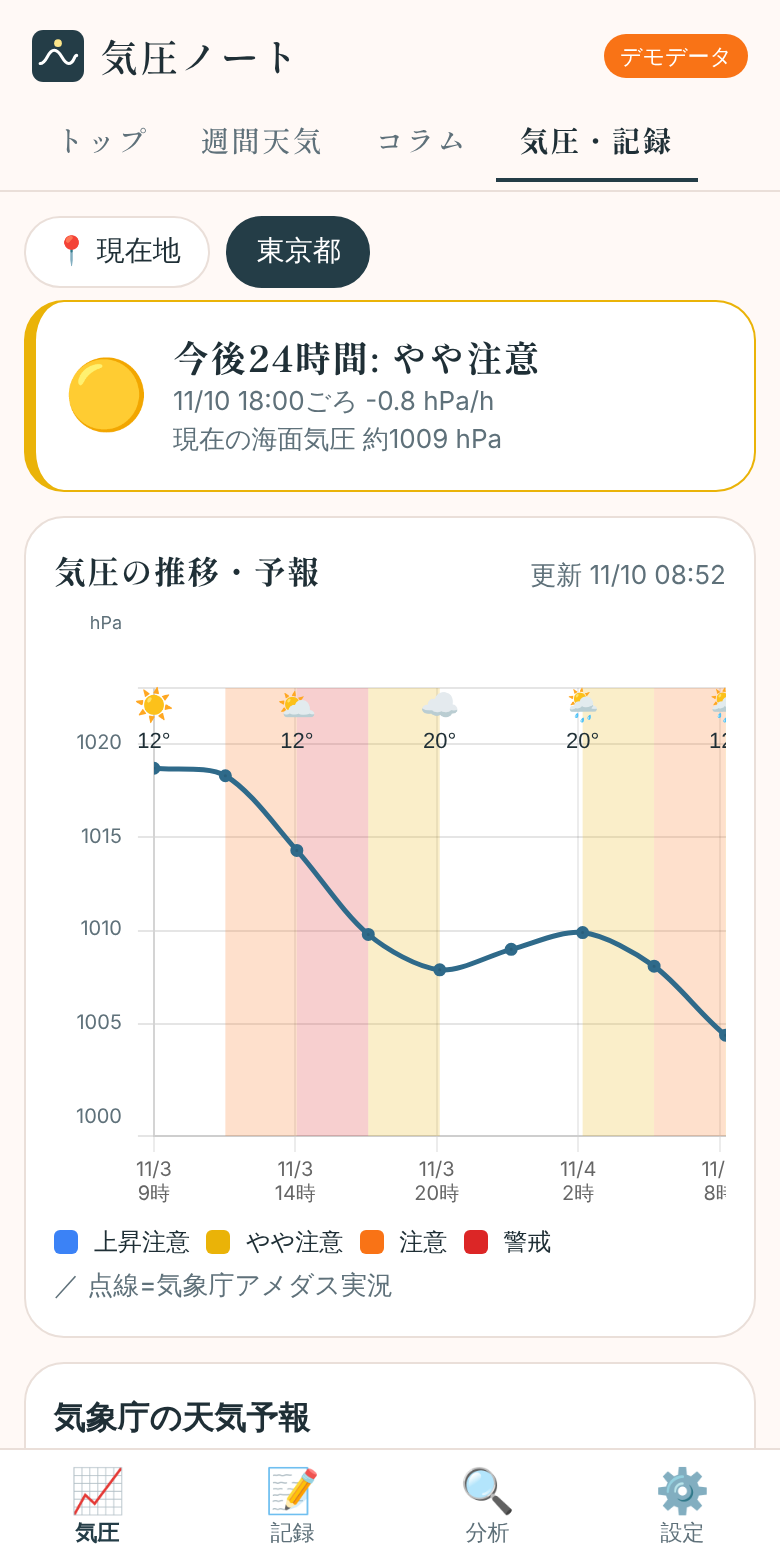
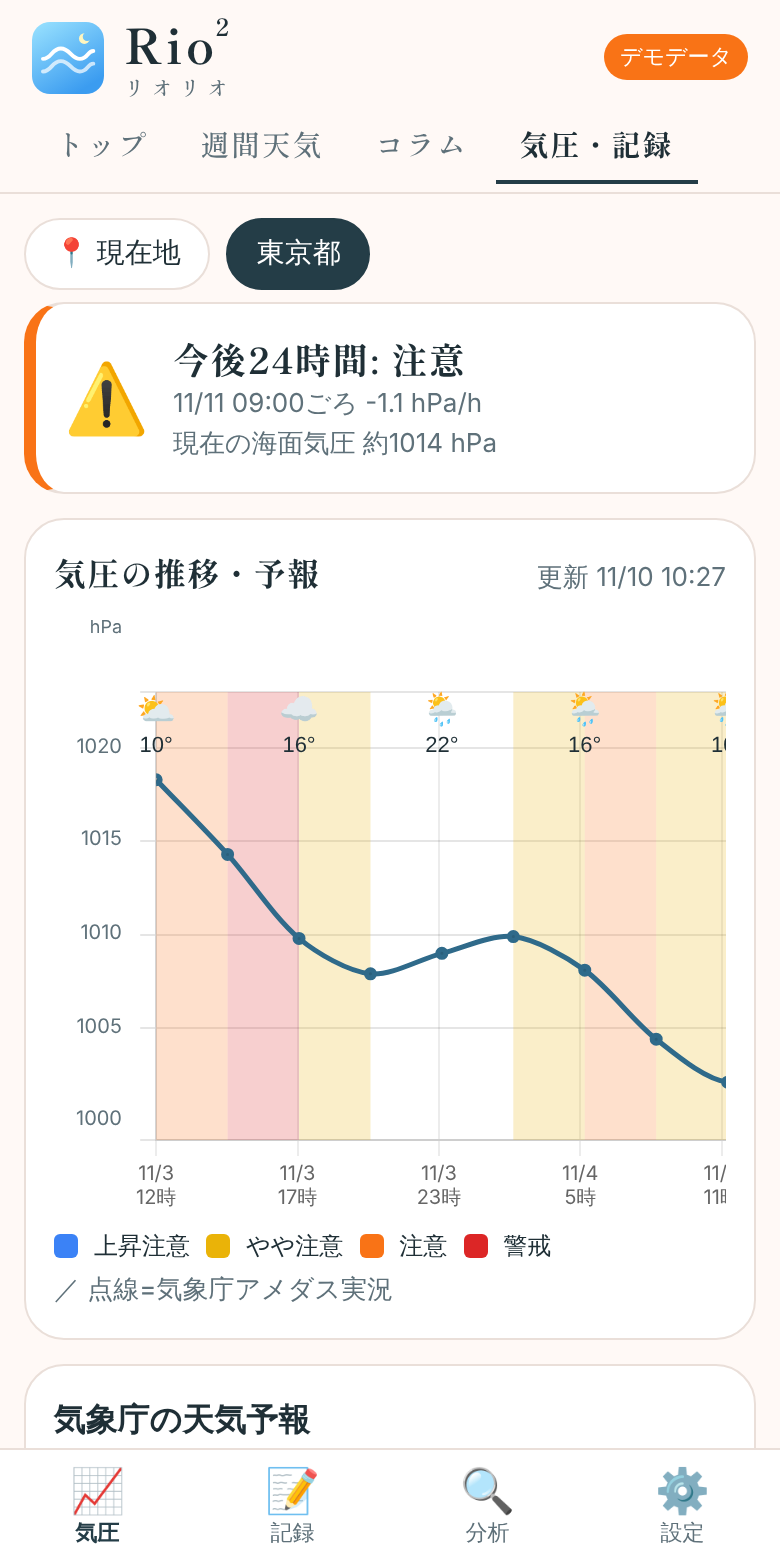
サービス名を「Rio²（リオリオ）」に変更し、ロゴ(案A)と新アイコンを適用
- ヘッダー: 大きな「Rio²」の下に読み「リオリオ」。HERO・フッターのロゴも同様に
- アイコン: 空色のグラデーション背景に白い2本の波と淡黄の三日月(さわやかな配色)
- ページタイトル・manifest・利用規約・コラム内の表記を更新
- HERO内のアプリ画面写真を新しいヘッダー/アイコンで撮り直し

Claude-Session: https://claude.ai/code/session_01GABYT29VUZzXrt2vySzu7C

diff --git a/src/columns.js b/src/columns.js
@@ -19,7 +19,7 @@ export const COLUMNS = [
       { h: '不調が出やすいと言われる人' },
       { ul: ['乗り物酔いをしやすい人', '片頭痛などの頭痛持ちの人', 'めまいや耳鳴りの経験がある人', '首・肩のこりが強い人', '睡眠不足やストレスで自律神経が乱れやすい人'] },
       { h: '「気圧の変化」とはどのくらい？' },
-      { p: '台風や低気圧、前線が近づいたり、梅雨の時期に天気が崩れたりすると、気圧は大きく動きます。「気圧ノート」では、1時間あたりの気圧の変化量を「上昇注意」「やや注意」「注意」「警戒」の4段階で表示しています。これは体調の変化に気づきやすくするための目安で、医学的な基準ではありません。' },
+      { p: '台風や低気圧、前線が近づいたり、梅雨の時期に天気が崩れたりすると、気圧は大きく動きます。「リオリオ」では、1時間あたりの気圧の変化量を「上昇注意」「やや注意」「注意」「警戒」の4段階で表示しています。これは体調の変化に気づきやすくするための目安で、医学的な基準ではありません。' },
       { h: '知っておきたい「海面気圧」の話' },
       { p: '天気予報で使われる気圧は、標高の影響を取り除いた「海面気圧」です。お住まいの場所の実際の気圧とは数値が異なりますが、「どのくらい上がったか・下がったか」という変化の傾向は同じように読み取れます。このアプリが見ているのも、数値そのものではなく変化の速さです。' },
       { warn: 'このコラムは一般的な情報です。診断や治療の代わりにはなりません。症状が強い・続く場合は医療機関に相談してください。' },
@@ -43,7 +43,7 @@ export const COLUMNS = [
       { ul: ['夕食は消化のよいものを、食べ過ぎない', 'アルコールやカフェインの摂り過ぎに注意', '朝食を抜かない（当日の朝に備える）', 'こまめに水分をとる'] },
       { h: '5. ぬるめのお風呂でゆっくり温まる' },
       { p: '熱すぎないお湯にゆっくり浸かると、体がほぐれ、リラックスしやすくなります。のぼせや湯冷めには気をつけましょう。' },
-      { note: '体調を記録しておくと、「どのくらいの気圧の変化のとき、自分は不調になりやすいか」が分かってきます。「気圧ノート」の記録・分析機能を活用してください。' },
+      { note: '体調を記録しておくと、「どのくらいの気圧の変化のとき、自分は不調になりやすいか」が分かってきます。「リオリオ」の記録・分析機能を活用してください。' },
     ],
   },
   {
@@ -94,11 +94,11 @@ export const COLUMNS = [
   {
     slug: 'how-to-use-app',
     emoji: '📈',
-    title: '「気圧ノート」の使い方：予報と記録で、自分の傾向を知る',
+    title: '「リオリオ」の使い方：予報と記録で、自分の傾向を知る',
     summary: '気圧の予報をチェックし、体調を記録すると、不調が出やすい条件が見えてきます。アプリの活かし方を紹介します。',
     readMin: 3,
     blocks: [
-      { p: '「気圧ノート」は、気圧の変化を先回りで知り、体調を記録して、自分の傾向を見つけるためのサービスです。' },
+      { p: '「リオリオ」は、気圧の変化を先回りで知り、体調を記録して、自分の傾向を見つけるためのサービスです。' },
       { h: '気圧の変化は4段階で表示' },
       { p: '気圧の1時間あたりの変化量に応じて、グラフの背景色とアイコンで知らせます。' },
       { ul: ['上昇注意：1時間に +1.0hPa 以上の上昇', 'やや注意：1時間に −0.5〜−1.0hPa の低下', '注意：1時間に −1.0〜−1.5hPa の低下', '警戒：1時間に −1.5hPa 以上の急な低下'] },
@@ -129,7 +129,7 @@ export const COLUMNS = [
       { h: '相談先の例' },
       { p: '症状によって、内科、頭痛外来・脳神経内科、耳鼻咽喉科、心療内科など、相談先が異なります。どこにかかればよいか迷うときは、まずはかかりつけ医や内科に相談すると、必要に応じて専門の科を案内してもらえます。気象病・天気痛を専門に扱う外来を設けている医療機関もあります。' },
       { h: '受診のときに役立つこと' },
-      { p: '「いつ・どんな症状が・どのくらいの強さで出たか」「飲んだ薬」「そのときの天気」を伝えると、診察の助けになります。「気圧ノート」の記録は、そのまま見せられる体調メモとして使えます。' },
+      { p: '「いつ・どんな症状が・どのくらいの強さで出たか」「飲んだ薬」「そのときの天気」を伝えると、診察の助けになります。「リオリオ」の記録は、そのまま見せられる体調メモとして使えます。' },
       { warn: '本コラムは一般的な情報で、診断や治療を目的としたものではありません。最新の情報や個別の判断は、医療機関や、厚生労働省など公的機関の情報で確認してください。' },
     ],
   },

diff --git a/src/pages.js b/src/pages.js
@@ -3,7 +3,9 @@ import { COLUMNS, COLUMN_UPDATED, findColumn } from './columns.js';
 
 export const esc = (s) => String(s).replace(/[&<>"']/g, (c) => ({ '&': '&amp;', '<': '&lt;', '>': '&gt;', '"': '&quot;', "'": '&#39;' })[c]);
 
-const SITE = '気圧ノート';
+const SITE = 'Rio²（リオリオ）';
+const TAGLINE = '気圧と体調のノート';
+const LOGO = '<span class="ln"><b>Rio<sup>2</sup></b><small>リオリオ</small></span>';
 
 const NAV = [
   ['/', 'トップ', 'top'],
@@ -12,7 +14,7 @@ const NAV = [
 ];
 
 function layout({ title, description, page, body, extraHead = '', scripts = '', wide = false }) {
-  const full = title === SITE ? SITE : `${title} | ${SITE}`;
+  const full = title === SITE ? `${SITE}｜${TAGLINE}` : `${title} | ${SITE}`;
   return `<!doctype html>
 <html lang="ja">
 <head>
@@ -37,7 +39,7 @@ ${extraHead}
 <body data-page="${page}">
 <header class="site-h">
   <div class="wrap h-in">
-    <a class="logo" href="/"><img src="/icon.svg" alt="" width="26" height="26"><span>${SITE}</span></a>
+    <a class="logo" href="/" aria-label="Rio²（リオリオ） トップへ"><img src="/icon.svg" alt="" width="36" height="36">${LOGO}</a>
     <a class="btn sm primary h-app" href="/app/">アプリを開く</a>
   </div>
   <nav class="wrap nav" aria-label="メインメニュー">
@@ -50,7 +52,7 @@ ${body}
 </main>
 <footer class="site-f">
   <div class="wrap">
-    <p class="f-logo">気圧ノート</p>
+    <p class="f-logo">Rio<sup>2</sup>（リオリオ）</p>
     <p>本サービスの気圧データは海面気圧の変動傾向を示す目安であり、絶対値の保証や医学的な診断を提供するものではありません。</p>
     <p><a href="/terms.html">利用規約・プライバシー</a> ・ <a href="/columns">コラム</a> ・ <a href="/weather">週間天気</a> ・ <a href="/app/">アプリ</a></p>
     <p class="muted">天気: 気象庁 / OpenWeatherMap　© ${SITE}</p>
@@ -88,7 +90,7 @@ export function topPage() {
   <div class="wrap">
     <div class="hero-in">
       <div class="hero-copy">
-        <p class="hero-brand"><img src="/icon.svg" alt="" width="34" height="34">気圧ノート</p>
+        <p class="hero-brand"><img src="/icon.svg" alt="" width="40" height="40"><span class="brand-ln"><b>Rio<sup>2</sup></b><small>リオリオ</small></span></p>
         <p class="eyebrow">WEATHER &amp; WELLNESS</p>
         <p class="hero-sub">気圧の低下を前の晩に通知。<br>体調を記録するほど、あなたの「不調になりやすい条件」が見えてきます。</p>
         <p class="hero-btns"><a class="btn dark" href="/app/#log">体調を記録する</a><a class="btn ghost" href="/weather">週間天気を見る</a></p>

diff --git a/public/terms.html b/public/terms.html
@@ -1,12 +1,12 @@
 <!doctype html>
 <html lang="ja"><head><meta charset="utf-8"><meta name="viewport" content="width=device-width, initial-scale=1">
-<title>利用規約・プライバシー | 気圧ノート</title>
+<title>利用規約・プライバシー | Rio²（リオリオ）</title>
 <link rel="stylesheet" href="/style.css"></head>
 <body><header class="top"><h1>利用規約・プライバシー</h1></header>
 <main>
 <div class="card">
 <h2>1. サービスの目的</h2>
-<p>気圧ノート（以下「本サービス」）は、公開されている気象データを用いて気圧の変化を表示し、利用者自身による体調の記録・振り返りを支援するものです。</p>
+<p>Rio²（リオリオ）（以下「本サービス」）は、公開されている気象データを用いて気圧の変化を表示し、利用者自身による体調の記録・振り返りを支援するものです。</p>
 <h2>2. 免責事項</h2>
 <ul>
 <li>オープンAPIの気圧データは、標高や局地的な地形の影響を完全には反映できない場合があります。</li>

diff --git a/public/header.css b/public/header.css
@@ -21,3 +21,11 @@
 .site-h .nav::-webkit-scrollbar { display: none; }
 .site-h .nav a { flex: none; padding: 6px 12px; text-decoration: none; color: var(--h-muted); font-family: "Shippori Mincho B1", "Hiragino Mincho ProN", serif; font-size: 14.5px; font-weight: 500; letter-spacing: .06em; line-height: 1.7; border-bottom: 2px solid transparent; }
 .site-h .nav a[aria-current="page"] { color: var(--h-fg); font-weight: 700; border-bottom-color: var(--h-accent); }
+
+/* ロゴ: 大きな「Rio²」の下に、読みの「リオリオ」 */
+.site-h .logo { gap: 10px; }
+.site-h .logo img { border-radius: 9px; }
+.site-h .ln { display: flex; flex-direction: column; line-height: 1.15; }
+.site-h .ln b { font-size: 24px; font-weight: 700; letter-spacing: .08em; }
+.site-h .ln small { font-size: 10.5px; font-weight: 500; letter-spacing: .32em; color: var(--h-muted); margin-top: 2px; }
+.site-h sup { font-size: .5em; line-height: 0; position: relative; top: -.42em; margin-left: -.12em; letter-spacing: 0; font-weight: 600; }

diff --git a/public/app/index.html b/public/app/index.html
@@ -4,7 +4,7 @@
 <meta charset="utf-8">
 <meta name="viewport" content="width=device-width, initial-scale=1, viewport-fit=cover">
 <meta name="theme-color" content="#fff9f6">
-<title>気圧ノート</title>
+<title>Rio²（リオリオ）｜気圧と体調のノート</title>
 <link rel="manifest" href="/manifest.json">
 <link rel="icon" href="/icon.svg">
 <link rel="apple-touch-icon" href="/icon.svg">
@@ -17,7 +17,7 @@
 <body>
 <header class="site-h">
   <div class="wrap h-in">
-    <a class="logo" href="/"><img src="/icon.svg" alt="" width="26" height="26"><span>気圧ノート</span></a>
+    <a class="logo" href="/" aria-label="Rio²（リオリオ） トップへ"><img src="/icon.svg" alt="" width="36" height="36"><span class="ln"><b>Rio<sup>2</sup></b><small>リオリオ</small></span></a>
     <span id="demoBadge" class="badge" hidden>デモデータ</span>
   </div>
   <nav class="wrap nav" aria-label="メインメニュー">

diff --git a/public/site.css b/public/site.css
@@ -156,3 +156,10 @@ main.wrap { padding-top: 6px; }
 .sec { margin: 34px 0; }
 
 @media (prefers-reduced-motion: reduce) { html { scroll-behavior: auto; } }
+
+/* HERO・フッターのロゴ（ヘッダーは header.css） */
+.hero-brand img { border-radius: 10px; }
+.brand-ln { display: flex; flex-direction: column; line-height: 1.15; }
+.brand-ln b { font-size: 28px; font-weight: 700; letter-spacing: .08em; }
+.brand-ln small { font-size: 11px; letter-spacing: .34em; font-weight: 500; opacity: .92; margin-top: 2px; }
+.hero-brand sup, .site-f sup { font-size: .5em; line-height: 0; position: relative; top: -.42em; margin-left: -.12em; letter-spacing: 0; }

diff --git a/public/sw.js b/public/sw.js
@@ -1,5 +1,5 @@
 // アプリシェルのキャッシュ + FCM(Web Push)の受信
-const CACHE = 'kiatsu-shell-v8';
+const CACHE = 'kiatsu-shell-v9';
 const SHELL = ['/app/', '/style.css', '/header.css', '/app.js', '/manifest.json', '/terms.html', '/hero/hero.js', '/hero/hero.css', '/icon.svg', '/vendor/chart.js'];
 
 self.addEventListener('install', (e) => {

diff --git a/README.md b/README.md
@@ -1,4 +1,4 @@
-# shiftcast（気圧ノート）
+# shiftcast（Rio²／リオリオ：気圧と体調のノート）
 気圧の変化と体調を記録して気象病を予防する、スマホ向けPWA。Cloudflare Workers + D1 で動作します。
 
 - 気象: OpenWeatherMap（3時間毎）/ 気象庁アメダス実況（最寄り観測所の海面気圧）
